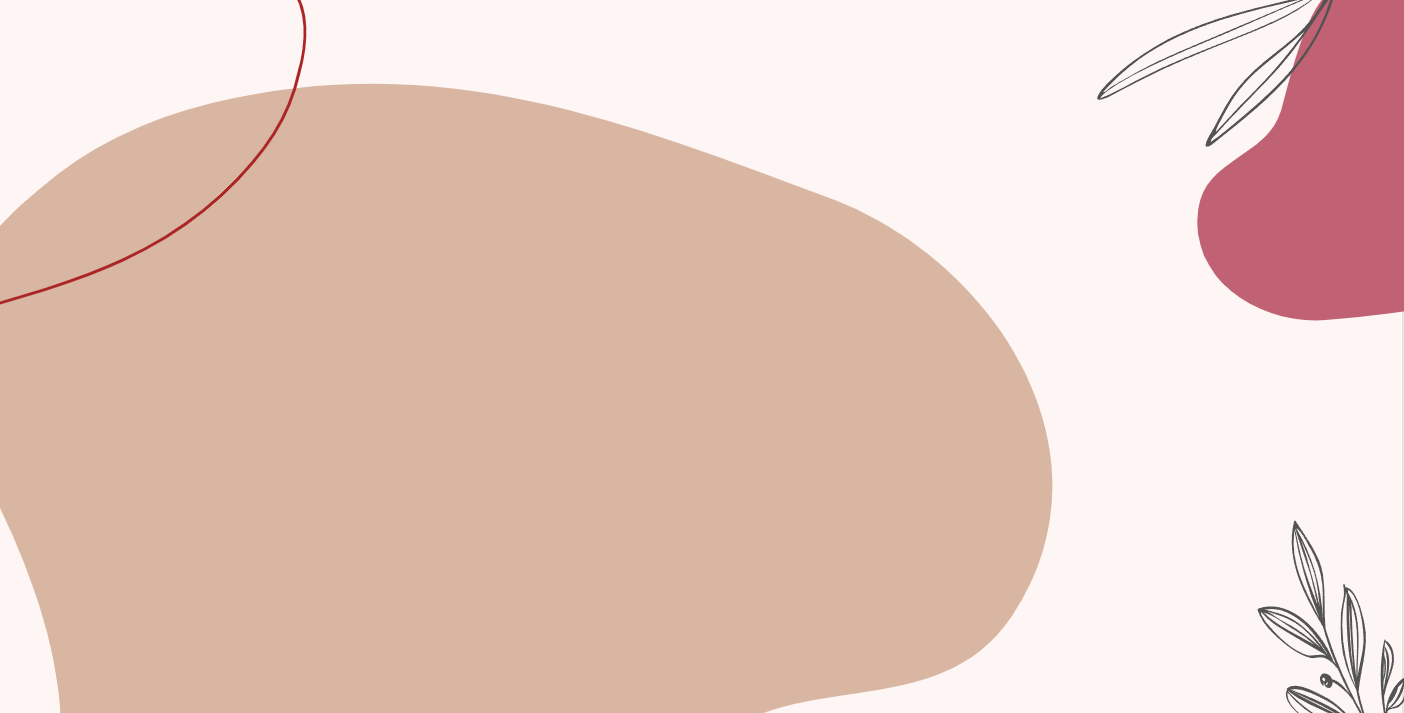
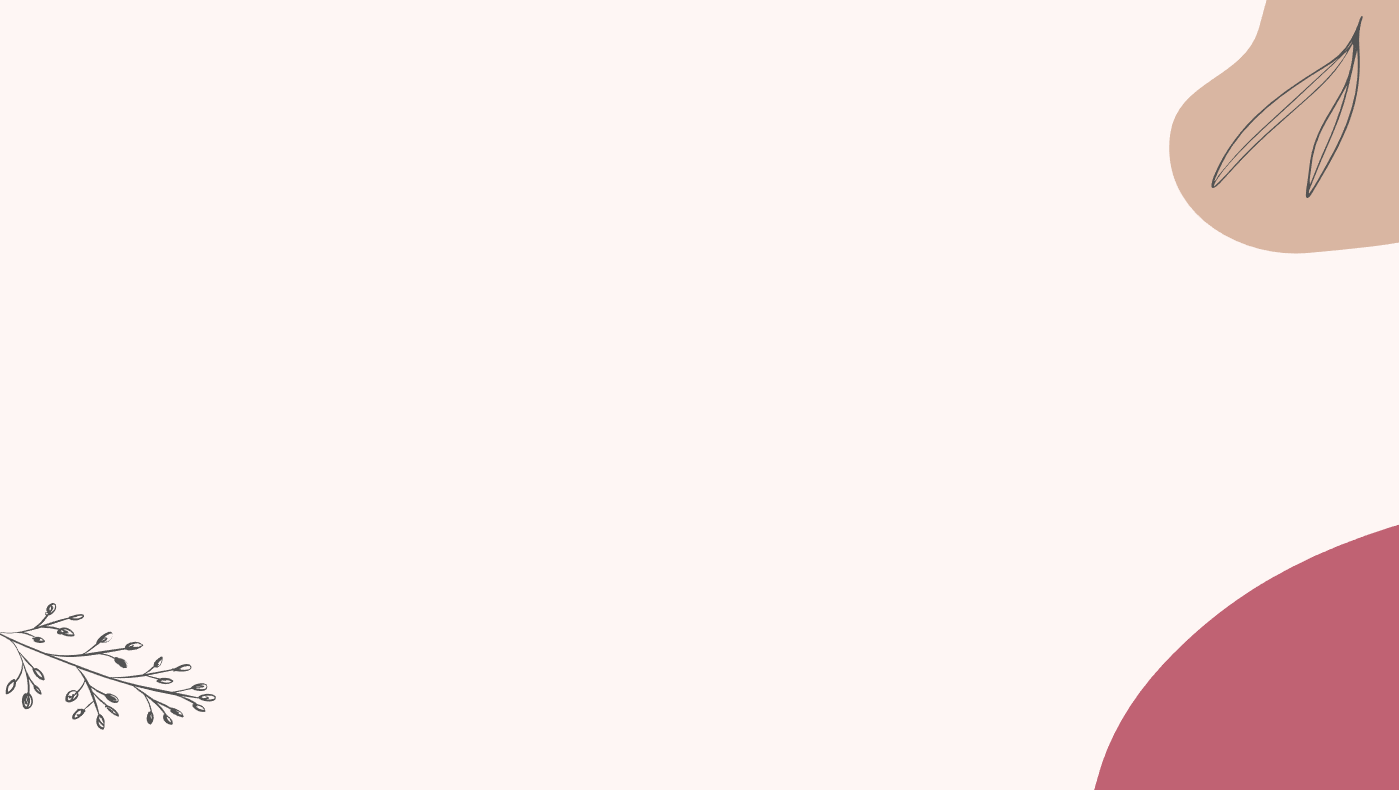
new background

diff --git a/app.py b/app.py
@@ -98,21 +98,21 @@ page_names_to_funcs[selected_page]()
 
 
 ### Background
-#def add_bg_from_local(image_file):
-    #with open(image_file, "rb") as image_file:
-        #encoded_string = base64.b64encode(image_file.read())
-    #st.markdown(
-    #f"""
-    #<style>
-    #.stApp {{
-        #background-image: url(data:./{"png"};base64,{encoded_string.decode()});
-        #background-size: cover
-    #}}
-    #</style>
-    #""",
-    #unsafe_allow_html=True
-    #)
-#add_bg_from_local('background.png')   
+def add_bg_from_local(image_file):
+    with open(image_file, "rb") as image_file:
+        encoded_string = base64.b64encode(image_file.read())
+    st.markdown(
+    f"""
+    <style>
+    .stApp {{
+        background-image: url(data:./{"png"};base64,{encoded_string.decode()});
+        background-size: cover
+    }}
+    </style>
+    """,
+    unsafe_allow_html=True
+    )
+add_bg_from_local('background.png')   
 
 
 ### App
